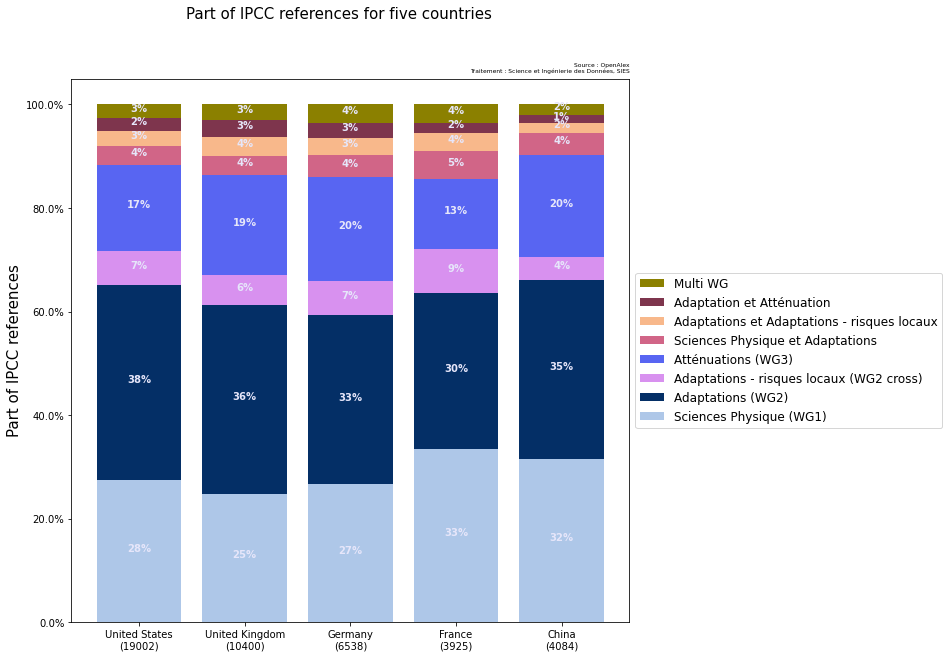
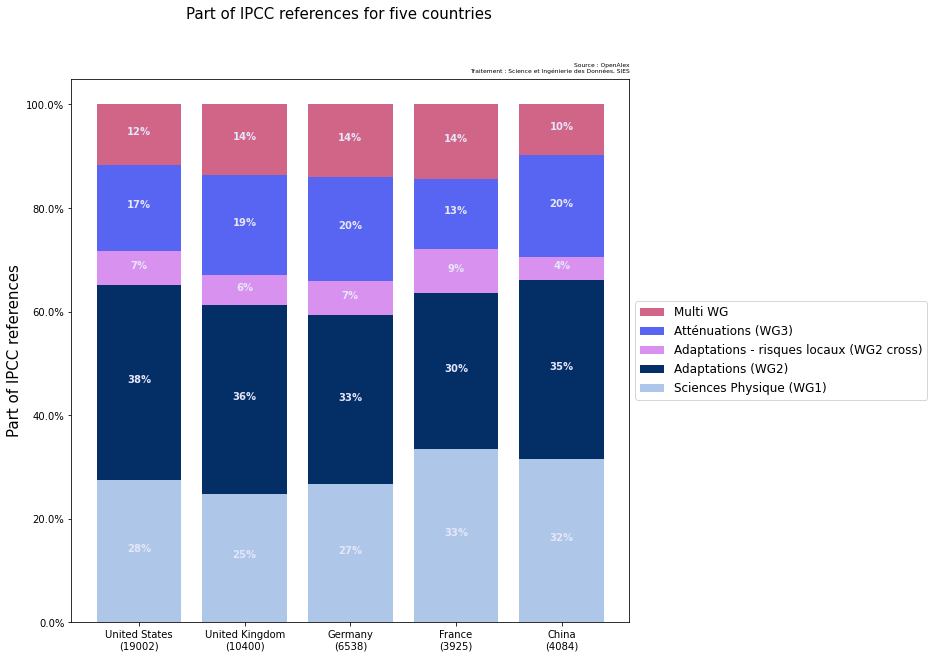
feat(teds): update in part 2

diff --git a/docs/20240311_teds.html b/docs/20240311_teds.html
@@ -91,12 +91,12 @@
                 <ul style="font-size: 0.75em; line-height: 170%;">
                   <br>
                   <li>
-                    🧘 Des références Françaises autant citées dans le <b>GIEC</b> que dans l'<b>IPBES</b>
+                    🧘  La France occupe la septième place dans les classements généraux par pays du <b>GIEC</b> et l'<b>IPBES</b> 
                     <br />
                     <br />
                   </li>
                   <li>
-                    ✨ La France brille dans les sciences physiques, les publications françaises sont les 4ème plus utilisées pour le 1er working group du <b>GIEC</b> (Physical science basis)
+                    ✨ La France brille dans les sciences physiques, les publications françaises sont les 4ème plus utilisées pour le groupe concernant les sciences physiques (WG1) du <b>GIEC</b> 
                     <br />
                     <br />
                   </li>
@@ -192,7 +192,7 @@
                 <ul style="font-size: 0.75em; line-height: 170%;">
                   <br>
                   <li>
-                    Nombre de publications : <b> 3939 </b>
+                    Nombre de publications : <b> 3925 sur 53258 </b>
                     <br />
                     <br />
                   </li>
@@ -233,12 +233,12 @@
                 <ul style="font-size: 0.75em; line-height: 170%;">
                   <br>
                   <li>
-                    Nombre de publications : <b> 467 </b>
+                    Nombre de publications : <b> 129 sur 6106 </b>
                     <br />
                     <br />
                   </li>
                   <li>
-                    Part de publications total : <b> 7,1 % </b>
+                    Part de publications total : <b> 2,1 % </b>
                     <br />
                     <br />
                   </li>
@@ -275,11 +275,8 @@
 
           <section>
             <h3 style="font-size: 0.7em;"> La France est en tête pour les publications qui concernent les sciences physiques mais moins citée pour l'adaptation et l'atténuation </h3>
-            <div class="gallery">
-              <img src="images/teds_ipcc_country_wg1_part.png" />
-              <img src="images/teds_ipcc_country_wg2_part.png" />
-              <img src="images/teds_ipcc_country_wg2cross_part.png" />
-              <img src="images/teds_ipcc_country_wg3_part.png" />
+            <div>
+              <img src="images/teds_ipcc_wg_ens_part.png" />
            </div>
           </section>
 
@@ -303,7 +300,14 @@
           </section>
 
           <section>
-            <h3 style="font-size: 0.5em;"> La répartition des publications dans les différents workings groups pour quelques pays </h3>
+            <h3 style="font-size: 0.45em;"> La répartition des publications dans les différents workings groups pour quelques pays: la France semble se consacrer davantage aux sciences théoriques pures et la constatations des impacts et risques sur les coraux, forêts, déserts...</h3>
+            <div style="height: 650px;">
+              <img src="images/teds_ipcc_5countries_red.png" />
+            </div>
+          </section>
+
+          <section>
+            <h3 style="font-size: 0.6em;"> On constate que les français, les anglais et les allemands ont davantage de publications aux interfaces</h3>
             <div style="height: 650px;">
               <img src="images/teds_ipcc_5countries.png" />
             </div>
